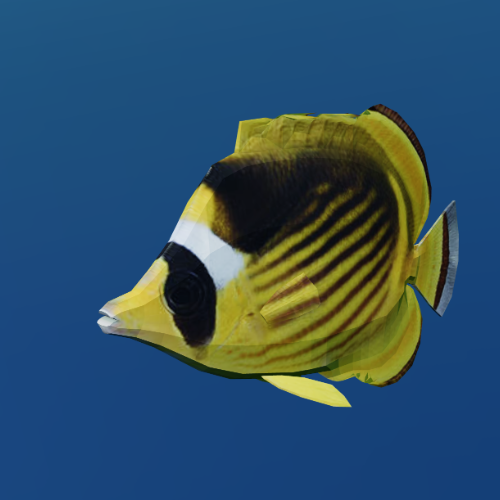
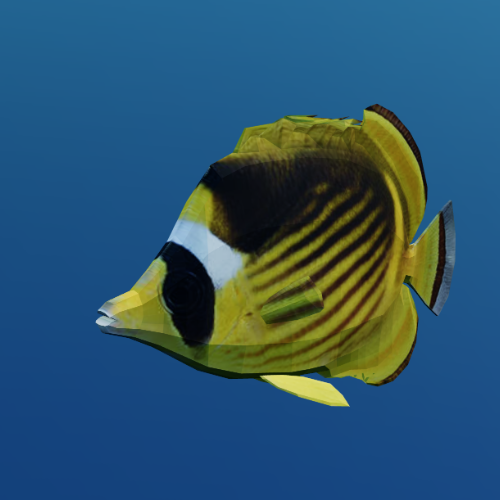
Raccoon butterflyfish repainted spines (v0.32.0-dev_3)
Jeremy's repaint starts the spine ramp at 0.4, so each spine's base is
now the painted vertex nearest the body, smoothed along the back. An
optional squash term (off) sinks the spines instead of laying them back;
laying them back kept the cleanest top line. Tile re-rendered.

Changed region(s): [[0.18, 0.21, 0.93, 0.81], [0.66, 0.0, 1.0, 0.3]]

diff --git a/src/components/Fish.jsx b/src/components/Fish.jsx
@@ -595,14 +595,13 @@ function molaFinBases(geometry, frame) {
 
 const spineReachCache = new WeakSet()
 const SPINE_ROOT_BINS = 24
-// The paint below which a spine vertex counts as its base.
-const SPINE_ROOT_PAINT = 0.15
 
 // Folding spines: how far each spine vertex stands out from its spine's base, as a `spineReach`
 // attribute (source units, along the vertical axis). The base line is the paint's own: per bin
-// along the body, the lowest-painted vertices nearest the body (the top of the back for the
-// dorsal spines, the belly for the anal), so a tall spine folds as far as its own height. A
-// single spine height for the whole fin left the tall front spines standing half up.
+// along the body, the painted vertex nearest the body (the top of the back for the dorsal
+// spines, the belly for the anal), so a tall spine folds as far as its own height. A single
+// spine height for the whole fin left the tall front spines standing half up, and a base taken
+// from low paint alone missed a paint that starts at 0.4.
 function spineFoldReach(geometry, sourceAxis, verticalAxis, axisHeight) {
   if (!geometry || spineReachCache.has(geometry)) return
   spineReachCache.add(geometry)
@@ -625,11 +624,10 @@ function spineFoldReach(geometry, sourceAxis, verticalAxis, axisHeight) {
   if (Number.isFinite(minAlong)) {
     const span = Math.max(0.00001, maxAlong - minAlong)
     const binOf = value => THREE.MathUtils.clamp(Math.floor((value - minAlong) / span * SPINE_ROOT_BINS), 0, SPINE_ROOT_BINS - 1)
-    // Per side (+1 dorsal, -1 anal) and bin, the base: the painted-base vertex nearest the body.
+    // Per side (+1 dorsal, -1 anal) and bin, the base: the painted vertex nearest the body.
     const roots = { 1: new Array(SPINE_ROOT_BINS).fill(null), [-1]: new Array(SPINE_ROOT_BINS).fill(null) }
     for (let index = 0; index < count; index += 1) {
-      const paint = color.getX(index)
-      if (paint <= 0.001 || paint > SPINE_ROOT_PAINT) continue
+      if (color.getX(index) <= 0.001) continue
       const side = height[index] >= axisHeight ? 1 : -1
       const bin = binOf(along[index])
       const out = side * height[index]
@@ -643,7 +641,13 @@ function spineFoldReach(geometry, sourceAxis, verticalAxis, axisHeight) {
       }
       return null
     })
-    const filled = { 1: fill(roots[1]), [-1]: fill(roots[-1]) }
+    // Smoothed over neighbouring bins: a base that steps from bin to bin leaves ridges in the fold.
+    const smooth = values => values.map((value, bin) => {
+      if (value === null) return null
+      const near = [values[bin - 1], value, values[bin + 1]].filter(v => v != null)
+      return near.reduce((sum, v) => sum + v, 0) / near.length
+    })
+    const filled = { 1: smooth(fill(roots[1])), [-1]: smooth(fill(roots[-1])) }
     for (let index = 0; index < count; index += 1) {
       if (color.getX(index) <= 0.001) continue
       const side = height[index] >= axisHeight ? 1 : -1
@@ -692,6 +696,7 @@ function applyFishLightMask(material, rim = null, proceduralVertex = null, geome
         spineFold: { value: 1 },
         spineAxis: { value: proceduralVertex.spineFold.axis ?? 0 },
         spineAngle: { value: THREE.MathUtils.degToRad(proceduralVertex.spineFold.foldDegrees ?? 80) },
+        spineSquash: { value: proceduralVertex.spineFold.squash ?? 0 },
       }
     })() : {}),
   } : null
@@ -756,6 +761,7 @@ function applyFishLightMask(material, rim = null, proceduralVertex = null, geome
         shader.uniforms.uSpineFold = caudalUniforms.spineFold
         shader.uniforms.uSpineAxis = caudalUniforms.spineAxis
         shader.uniforms.uSpineAngle = caudalUniforms.spineAngle
+        shader.uniforms.uSpineSquash = caudalUniforms.spineSquash
       }
     }
     if (molaMaskUniforms) {
@@ -869,14 +875,18 @@ attribute float spineReach;
 uniform float uSpineFold;
 uniform float uSpineAxis;
 uniform float uSpineAngle;
+uniform float uSpineSquash;
 vec3 proceduralSpineFold(vec3 value) {
   float reach = spineReach;
   if (reach <= 0.0) return value;
+  // Shortened as it folds (a spine lowered into its groove), so the reach that turns back is
+  // shorter and the sawtooth edge does not lie over the spines behind it.
+  float folded = reach * (1.0 - uSpineFold * uSpineSquash);
   float angle = uSpineFold * uSpineAngle * smoothstep(0.0, 0.3, color_1.r);
   float outward = proceduralAxisValue(value, proceduralVerticalAxis()) >= uSpineAxis ? 1.0 : -1.0;
   float back = mix(-1.0, 1.0, uProceduralTailAtMaxZ);
-  proceduralAddAxis(value, proceduralVerticalAxis(), -outward * reach * (1.0 - cos(angle)));
-  proceduralAddAxis(value, uProceduralSourceAxis, back * reach * sin(angle));
+  proceduralAddAxis(value, proceduralVerticalAxis(), -outward * (reach - folded * cos(angle)));
+  proceduralAddAxis(value, uProceduralSourceAxis, back * folded * sin(angle));
   return value;
 }` : `
 vec3 proceduralSpineFold(vec3 value) {

diff --git a/src/version.js b/src/version.js
@@ -1,3 +1,3 @@
-export const APP_VERSION = 'v0.32.0-dev_2'
+export const APP_VERSION = 'v0.32.0-dev_3'
 export const APP_VERSION_LABEL = `world oceanarium ${APP_VERSION}`
 export const APP_VERSION_SHORT_LABEL = APP_VERSION

diff --git a/CHANGELOG.md b/CHANGELOG.md
@@ -10,14 +10,14 @@ Versioning convention notes:
 
 ## v0.32.0 — Raccoon Butterflyfish
 
-Status: in review as `v0.32.0-dev_2` (2026-10-21, branch `feat/chaetodon-lunula`, #146; `dev_1` the same day). Jeremy's next reef fish for The Reefs, in one group of 20 (his call: "1 group of 20 is good").
+Status: in review as `v0.32.0-dev_3` (2026-10-21, branch `feat/chaetodon-lunula`, #146; `dev_1` and `dev_2` the same day). Jeremy's next reef fish for The Reefs, in one group of 20 (his call: "1 group of 20 is good").
 
 ### Species
 
 - Raccoon Butterflyfish (*Chaetodon lunula*, Chaetodontidae, Least Concern): facts from FishBase. 20 cm maximum total length = 0.8 WU, under the 1.08 WU sardinella floor (Jeremy: "size ok"); individuals 14 to 20 cm; length–weight a 0.02291 / b 3.00; up to 9 years. Nocturnal, in pairs or small groups; eats nudibranchs, tubeworm tentacles and other bottom invertebrates, some algae and coral polyps.
 - Jeremy's model (`public/models/fish/chaetodon-lunula/`, 433 KB): one body with the dorsal, anal and tail fins, separate pectoral and pelvic fins, nose at −Z, a 447 px photo texture with no alpha (so no `alphaBlend`). Scale 3.994 from a 0.2003 source length; root recentred on the snout-to-tail line.
 - Motion: the bannerfish's labriform `caudal-vertex` tuning (a stiff deep body that cruises on its pectorals, a wave from halfway back) in this model's units. No new motion type.
-- Folding spines (`dev_2`, Jeremy: "is it possible to make the spines retract?"): an optional `spineFold` layer on `caudal-vertex`. Jeremy painted the front dorsal and the anal spines in `COLOR_1` red, base to tip; each painted vertex turns back and in onto the body about its own spine's base (its height above the base measured from the paint on load, `spineReach`), up to 80°. Folded on the move and in a shelter, half up while it hovers or picks at a rock, fully up for 4 s after a startle (a butterflyfish's threat display). A single spine height for the fin left the tall front spines half up. Contract in `docs/procedural/caudal-wave.md` (Folding spines).
+- Folding spines (`dev_2`, Jeremy: "is it possible to make the spines retract?"): an optional `spineFold` layer on `caudal-vertex`. Jeremy painted the front dorsal and the anal spines in `COLOR_1` red, base to tip; each painted vertex turns back and in onto the body about its own spine's base (its height above the base measured from the paint on load, `spineReach`), up to 80°. Folded on the move and in a shelter, half up while it hovers or picks at a rock, fully up for 4 s after a startle (a butterflyfish's threat display). A single spine height for the fin left the tall front spines half up. `dev_3`: Jeremy repainted the spines (the folded `dev_2` "doesnt look v good"); each spine's base is now the painted vertex nearest the body, smoothed along the back, since the new paint starts at 0.4 at the base. Contract in `docs/procedural/caudal-wave.md` (Folding spines).
 - Atlas: shown with five of its group; a rendered three-quarter head tile with the spines folded (`public/atlas/chaetodon-lunula-thumbnail.png`). School size reads "Small groups" (Jeremy: the 20 is a guess).
 
 ### Behaviour

diff --git a/docs/procedural/caudal-wave.md b/docs/procedural/caudal-wave.md
@@ -154,7 +154,7 @@ In `model.proceduralAnimation`, `src/data/species.js`.
 | `pectoralFinFlutter` | `0.12` | CPU flutter for independent pectorals |
 | `pelvicFinFlutter` | `0.07` | CPU flutter for independent pelvics |
 | `finRootFrom` | `'axis'` | How each independent fin's root (its pivot) is found: the tenth of its vertices nearest the body's long axis, or `'body-surface'`, nearest the body's surface |
-| `spineFold` | — | Optional folding spines: `{ axis, foldDegrees }`. See **Folding spines** below |
+| `spineFold` | — | Optional folding spines: `{ axis, foldDegrees, squash }`. See **Folding spines** below |
 
 ### Folding spines
 
@@ -165,12 +165,17 @@ Decoration, not thrust: the wave and the pectorals still swim the fish.
   black everywhere else (green and blue unused). Model the spines raised.
 - **Reach:** on load, `spineFoldReach()` (Fish.jsx) gives every painted vertex its height
   above its own spine's base, a `spineReach` attribute: per bin along the body, the base is
-  the lowest-painted vertices (paint ≤ 0.15) nearest the body. Dorsal or anal by which side
-  of `axis` (the body axis height, source units) the vertex is on.
+  the painted vertex nearest the body, smoothed over neighbouring bins (a stepped base left
+  ridges). Any paint ramp works; Jeremy's second paint starts at 0.4 at the base. Dorsal or
+  anal by which side of `axis` (the body axis height, source units) the vertex is on.
 - **Fold:** each painted vertex turns back toward the tail and in onto the body about its
   base, by `uSpineFold × foldDegrees` (default 80°), in the plane of the source and vertical
   axes, eased in over the first 0.3 of the paint so the spiny fin blends into the soft one.
   The wave then runs on the folded position. Normals are left alone (a thin fin's face sideways).
+  `squash` (default 0) also shortens the reach as it folds, sinking the spines rather than
+  laying them back. Compared on 2026-10-21 (80° / 0, 45° / 0.6, 20° / 0.85): laying them back
+  flat kept the cleanest top line; the others left small nubs. Any fold of a few large spine
+  triangles shows facets in an extreme close-up.
 - **Driver** (Fish.jsx, after the startle whip): `spineFold` 1 folded on the move and in a
   shelter; 0.5 while hovering, settling or pecking at a rock (`SPINE_RAISE_AT_ROCK`); 0 for
   `SPINE_ALERT_SECONDS` (4 s) after a startle, a butterflyfish's threat display. Raises fast

diff --git a/ROADMAP.md b/ROADMAP.md
@@ -15,7 +15,7 @@ Status labels:
 
 ### Raccoon Butterflyfish
 
-Status: `Current in development` (branch `feat/chaetodon-lunula`, started 2026-10-20). In review as `v0.32.0-dev_2` (2026-10-21, #146): Jeremy's model with folding spines, one group of 20 at The Reefs, Atlas entry (six fish) and tile.
+Status: `Current in development` (branch `feat/chaetodon-lunula`, started 2026-10-20). In review as `v0.32.0-dev_3` (2026-10-21, #146): Jeremy's model with folding spines, one group of 20 at The Reefs, Atlas entry (six fish) and tile.
 
 Subtasks:
 - [x] Species data and Atlas copy from FishBase (`Chaetodon lunula`): 20 cm TL = 0.8 WU, nocturnal, pairs or small groups, LC (2009), up to 9 years, length–weight a 0.02291 / b 3.00.
@@ -28,7 +28,7 @@ Subtasks:
 - [x] The Reefs roster, Atlas pose with two of the group (desktop, 375 px portrait, landscape checked), rendered Atlas tile.
 - [x] Folding spines (`dev_2`): `spineFold` on `caudal-vertex`, Jeremy's `COLOR_1` paint.
 - [ ] The full raise after a startle is not yet seen live (no startle in the sampled 20 s); check it on the phone. `Next`
-- [ ] Jeremy: review `v0.32.0-dev_2` on the phone (motion, spines, group, Atlas). `Blocked / waiting review`
+- [ ] Jeremy: review `v0.32.0-dev_3` on the phone (motion, spines, group, Atlas). `Blocked / waiting review`
 - [ ] Production `creatures` rows (20), on Jeremy's go-ahead once the clean version is live.
 - [ ] Phone frame rate with 20 more fish at The Reefs. `Next`
 
